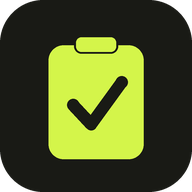
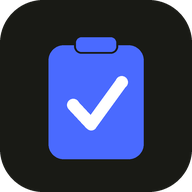
Akcenat: kobaltno plava umesto žute (#2)
Glavna dugmad, aktivna stavka menija, fokus, sjaj u pozadini i ikonice
su sada kobaltno plavi (#2F4EF5 / #4A6AFF u tamnoj temi), tekst na
dugmadima beo.

Claude-Session: https://claude.ai/code/session_01Ny48MDF1nVHcA9JE4iCr71

diff --git a/src/index.css b/src/index.css
@@ -5,7 +5,7 @@
 
 /*
  * "Šank" — the café's ledger. Warm alabaster paper by day, obsidian bar top by
- * night, one chartreuse accent for whatever you act on.
+ * night, one cobalt accent for whatever you act on.
  *
  * Neutrals 50–300 are translucent ink, not solid greys: borders, dividers and
  * tinted rows layer correctly on both the canvas and a card. 400–900 are the
@@ -20,9 +20,9 @@
   --color-surface: #f7f5f0;
   /* Solid "selected" fill (chips, active tab) and the text on it. */
   --color-ink: #1c1d17;
-  --color-on-ink: #e2f77c;
-  /* Text on the chartreuse accent, in both themes. */
-  --color-on-brand: #171a07;
+  --color-on-ink: #ffffff;
+  /* Text on the cobalt accent, in both themes. */
+  --color-on-brand: #ffffff;
 
   --color-slate-50: rgb(40 36 20 / 0.035);
   --color-slate-100: rgb(40 36 20 / 0.065);
@@ -35,17 +35,17 @@
   --color-slate-800: #29281f;
   --color-slate-900: #18180f;
 
-  /* Chartreuse. 600 is the button fill; 700–900 are legible text shades. */
-  --color-brand-50: #eef5cf;
-  --color-brand-100: #e4f0b0;
-  --color-brand-200: #cfe47c;
-  --color-brand-300: #b7d447;
-  --color-brand-400: #c6ec36;
-  --color-brand-500: #9cc417;
-  --color-brand-600: #d4f54a;
-  --color-brand-700: #4b6200;
-  --color-brand-800: #394b00;
-  --color-brand-900: #263200;
+  /* Cobalt. 600 is the button fill; 700–900 are text shades. */
+  --color-brand-50: #eef1ff;
+  --color-brand-100: #dfe5ff;
+  --color-brand-200: #bfcbff;
+  --color-brand-300: #94a7ff;
+  --color-brand-400: #5f7cff;
+  --color-brand-500: #3d5cff;
+  --color-brand-600: #2f4ef5;
+  --color-brand-700: #2338c4;
+  --color-brand-800: #1d2e96;
+  --color-brand-900: #172469;
 
   /* Success: a cooler emerald, so it never reads as the accent. */
   --color-green-50: #e2f1e8;
@@ -84,8 +84,8 @@
   color-scheme: dark;
   --color-canvas: #0d0e0b;
   --color-surface: #161713;
-  --color-ink: #d4f54a;
-  --color-on-ink: #141608;
+  --color-ink: #4a6aff;
+  --color-on-ink: #ffffff;
 
   --color-slate-50: rgb(250 250 235 / 0.035);
   --color-slate-100: rgb(250 250 235 / 0.06);
@@ -98,14 +98,15 @@
   --color-slate-800: #e7e8de;
   --color-slate-900: #f4f4ec;
 
-  --color-brand-50: rgb(212 245 74 / 0.07);
-  --color-brand-100: rgb(212 245 74 / 0.12);
-  --color-brand-200: rgb(212 245 74 / 0.22);
-  --color-brand-300: rgb(212 245 74 / 0.38);
-  --color-brand-500: #c2ea33;
-  --color-brand-700: #d4f54a;
-  --color-brand-800: #e3f98a;
-  --color-brand-900: #f1fcc8;
+  --color-brand-50: rgb(90 120 255 / 0.09);
+  --color-brand-100: rgb(90 120 255 / 0.15);
+  --color-brand-200: rgb(90 120 255 / 0.26);
+  --color-brand-300: rgb(90 120 255 / 0.42);
+  --color-brand-500: #6b86ff;
+  --color-brand-600: #4a6aff;
+  --color-brand-700: #a3b5ff;
+  --color-brand-800: #c6d1ff;
+  --color-brand-900: #e3e8ff;
 
   --color-green-50: #0e2219;
   --color-green-100: #122d21;
@@ -153,7 +154,7 @@
     transition: background-color 0.3s ease;
   }
 
-  /* Atmosphere: a faint dot grid, a chartreuse glow up top, a warm one below. */
+  /* Atmosphere: a faint dot grid, a cobalt glow up top, a warm one below. */
   body::before {
     content: '';
     position: fixed;
@@ -161,7 +162,7 @@
     z-index: -1;
     pointer-events: none;
     background:
-      radial-gradient(60rem 30rem at 100% -10%, rgb(212 245 74 / 0.28), transparent 60%),
+      radial-gradient(60rem 30rem at 100% -10%, rgb(61 92 255 / 0.2), transparent 60%),
       radial-gradient(50rem 30rem at -10% 110%, rgb(232 160 90 / 0.14), transparent 60%),
       radial-gradient(circle at 1px 1px, rgb(40 36 20 / 0.09) 1px, transparent 0) 0 0 / 22px 22px;
     -webkit-mask-image: linear-gradient(to bottom, black, rgb(0 0 0 / 0.55));
@@ -169,7 +170,7 @@
   }
   .dark body::before {
     background:
-      radial-gradient(55rem 28rem at 100% -10%, rgb(212 245 74 / 0.11), transparent 60%),
+      radial-gradient(55rem 28rem at 100% -10%, rgb(80 110 255 / 0.16), transparent 60%),
       radial-gradient(50rem 30rem at -10% 110%, rgb(232 140 70 / 0.07), transparent 60%),
       radial-gradient(circle at 1px 1px, rgb(250 250 235 / 0.06) 1px, transparent 0) 0 0 / 22px 22px;
   }
@@ -185,8 +186,8 @@
   }
 
   ::selection {
-    background: #d4f54a;
-    color: #171a07;
+    background: #3d5cff;
+    color: #ffffff;
   }
 
   :focus-visible {
@@ -247,11 +248,11 @@
     }
   }
 
-  /* The obsidian tile: dark in both themes, dot grid, chartreuse glow. */
+  /* The obsidian tile: dark in both themes, dot grid, cobalt glow. */
   .tile-obsidian {
     color: #f1f1e8;
     background:
-      radial-gradient(22rem 14rem at 110% -20%, rgb(212 245 74 / 0.32), transparent 65%),
+      radial-gradient(22rem 14rem at 110% -20%, rgb(90 120 255 / 0.45), transparent 65%),
       radial-gradient(circle at 1px 1px, rgb(255 255 255 / 0.08) 1px, transparent 0) 0 0 / 16px 16px,
       #191a15;
     border: 1px solid rgb(255 255 255 / 0.08);

diff --git a/src/pages/StaffHome.tsx b/src/pages/StaffHome.tsx
@@ -104,13 +104,13 @@ export function StaffHome() {
         >
           <div className="flex items-start justify-between gap-3">
             <p className="eyebrow text-white/55">{activeId ? 'Nezavršen popis' : 'Za brojanje danas'}</p>
-            <span className="flex h-11 w-11 shrink-0 items-center justify-center rounded-full bg-brand-600 text-xl font-bold text-on-brand shadow-[0_0_0_6px_rgb(212_245_74/0.12)] transition-transform duration-300 group-hover:rotate-[-8deg] group-hover:scale-110">
+            <span className="flex h-11 w-11 shrink-0 items-center justify-center rounded-full bg-brand-600 text-xl font-bold text-on-brand shadow-[0_0_0_6px_rgb(90_120_255/0.22)] transition-transform duration-300 group-hover:rotate-[-8deg] group-hover:scale-110">
               {activeId ? '→' : '+'}
             </span>
           </div>
           <div>
             {!activeId && (
-              <p className="num text-6xl font-semibold leading-none tracking-[-0.06em] text-[#d4f54a]">
+              <p className="num text-6xl font-semibold leading-none tracking-[-0.06em] text-[#a3b5ff]">
                 {articleCount}
                 <span className="ml-2 align-top text-sm font-medium tracking-normal text-white/50">artikala</span>
               </p>

diff --git a/src/components/ui.tsx b/src/components/ui.tsx
@@ -6,7 +6,7 @@ type Variant = 'primary' | 'secondary' | 'ghost' | 'danger'
 // remapped in dark mode (see index.css), brightness works in both themes.
 const variants: Record<Variant, string> = {
   primary:
-    'bg-brand-600 text-on-brand border border-black/10 shadow-[inset_0_1px_0_rgb(255_255_255/0.5)] hover:-translate-y-px hover:brightness-105 hover:shadow-[inset_0_1px_0_rgb(255_255_255/0.5),0_0_0_4px_rgb(212_245_74/0.28)]',
+    'bg-brand-600 text-on-brand border border-black/10 shadow-[inset_0_1px_0_rgb(255_255_255/0.22)] hover:-translate-y-px hover:brightness-105 hover:shadow-[inset_0_1px_0_rgb(255_255_255/0.22),0_0_0_4px_rgb(61_92_255/0.25)]',
   secondary: 'bg-surface text-slate-800 border border-slate-200 shadow-sm hover:-translate-y-px hover:bg-slate-50',
   ghost: 'bg-transparent text-slate-600 hover:bg-slate-100 hover:text-slate-900',
   danger:

diff --git a/src/pages/admin/Dashboard.tsx b/src/pages/admin/Dashboard.tsx
@@ -127,7 +127,7 @@ export function Dashboard() {
               </span>
             </div>
             <div>
-              <p className="num text-6xl font-semibold leading-none tracking-[-0.06em] text-[#d4f54a]">{orderLineCount ?? 0}</p>
+              <p className="num text-6xl font-semibold leading-none tracking-[-0.06em] text-[#a3b5ff]">{orderLineCount ?? 0}</p>
               <p className="mt-2 font-display text-xl font-bold tracking-tight">artikala za nabavku</p>
               <p className="num mt-1 text-xs text-white/50">
                 popis {fmtDateTime(last.datetime)} · {last.user_name}

diff --git a/src/pages/CountSession.tsx b/src/pages/CountSession.tsx
@@ -316,7 +316,7 @@ export function CountSession() {
           <p className="eyebrow text-slate-400">{group.name}</p>
           <div className="mt-2 h-1.5 overflow-hidden rounded-full bg-slate-200">
             <div
-              className="h-full rounded-full bg-brand-500 shadow-[0_0_12px_rgb(212_245_74/0.6)] transition-all duration-500"
+              className="h-full rounded-full bg-brand-500 shadow-[0_0_12px_rgb(61_92_255/0.5)] transition-all duration-500"
               style={{ width: `${(filled / group.articles.length) * 100}%` }}
             />
           </div>

diff --git a/public/sw.js b/public/sw.js
@@ -2,7 +2,7 @@
 // Pages: network first (always fresh after a deploy), cached copy as fallback.
 // Built assets (hashed file names): cache first.
 // Only same-origin GETs are touched — database/API calls go straight to the network.
-const CACHE = 'popis-v2'
+const CACHE = 'popis-v3'
 
 self.addEventListener('install', () => self.skipWaiting())
 
